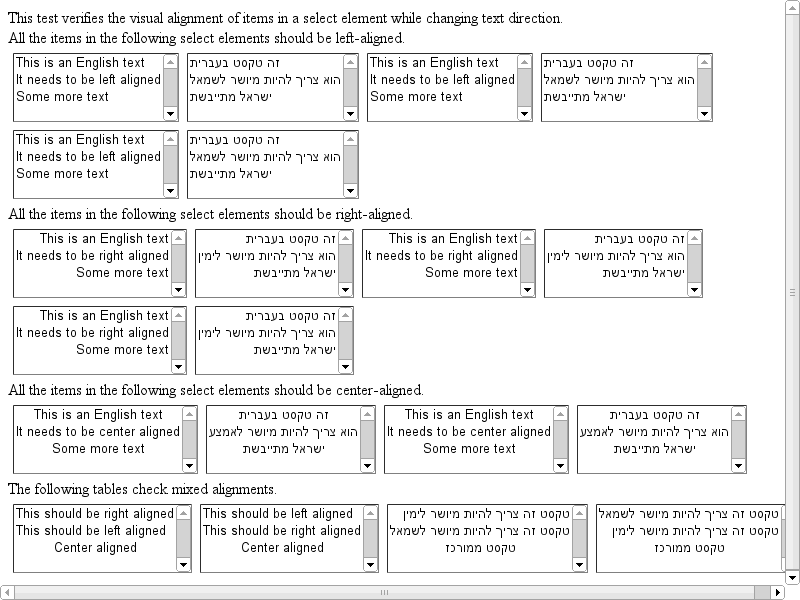
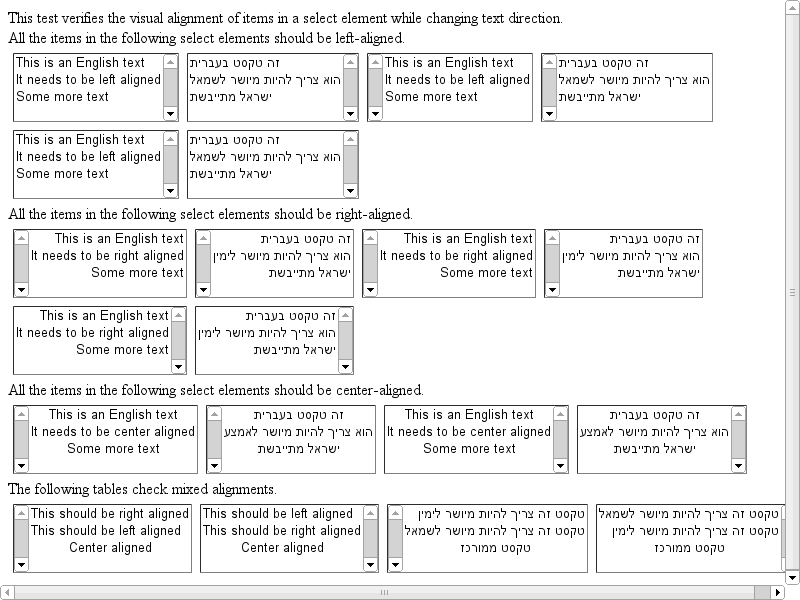
Making multiple select element RTL direction aware
BUG=85833

Review URL: https://codereview.chromium.org/31393004

git-svn-id: svn://svn.chromium.org/blink/trunk@160202 bbb929c8-8fbe-4397-9dbb-9b2b20218538

diff --git a/Source/core/rendering/RenderListBox.cpp b/Source/core/rendering/RenderListBox.cpp
@@ -274,7 +274,9 @@ int RenderListBox::baselinePosition(FontBaseline baselineType, bool firstLine, L
 
 LayoutRect RenderListBox::itemBoundingBoxRect(const LayoutPoint& additionalOffset, int index)
 {
-    return LayoutRect(additionalOffset.x() + borderLeft() + paddingLeft(),
+    // For RTL, items start after the left-side vertical scrollbar.
+    int scrollbarOffset = style()->shouldPlaceBlockDirectionScrollbarOnLogicalLeft() ? m_vBar->width() : 0;
+    return LayoutRect(additionalOffset.x() + borderLeft() + paddingLeft() + scrollbarOffset,
         additionalOffset.y() + borderTop() + paddingTop() + itemHeight() * (index - m_indexOffset),
         contentWidth(), itemHeight());
 }
@@ -348,10 +350,20 @@ void RenderListBox::addFocusRingRects(Vector<IntRect>& rects, const LayoutPoint&
     }
 }
 
+int RenderListBox::scrollbarLeft() const
+{
+    int scrollbarLeft = 0;
+    if (style()->shouldPlaceBlockDirectionScrollbarOnLogicalLeft())
+        scrollbarLeft = borderLeft();
+    else
+        scrollbarLeft = width() - borderRight() - m_vBar->width();
+    return scrollbarLeft;
+}
+
 void RenderListBox::paintScrollbar(PaintInfo& paintInfo, const LayoutPoint& paintOffset)
 {
     if (m_vBar) {
-        IntRect scrollRect = pixelSnappedIntRect(paintOffset.x() + width() - borderRight() - m_vBar->width(),
+        IntRect scrollRect = pixelSnappedIntRect(paintOffset.x() + scrollbarLeft(),
             paintOffset.y() + borderTop(),
             m_vBar->width(),
             height() - (borderTop() + borderBottom()));
@@ -461,7 +473,7 @@ bool RenderListBox::isPointInOverflowControl(HitTestResult& result, const Layout
     if (!m_vBar || !m_vBar->shouldParticipateInHitTesting())
         return false;
 
-    LayoutRect vertRect(accumulatedOffset.x() + width() - borderRight() - m_vBar->width(),
+    LayoutRect vertRect(accumulatedOffset.x() + scrollbarLeft(),
                         accumulatedOffset.y() + borderTop(),
                         m_vBar->width(),
                         height() - borderTop() - borderBottom());
@@ -482,7 +494,10 @@ int RenderListBox::listIndexAtOffset(const LayoutSize& offset)
         return -1;
 
     int scrollbarWidth = m_vBar ? m_vBar->width() : 0;
-    if (offset.width() < borderLeft() + paddingLeft() || offset.width() > width() - borderRight() - paddingRight() - scrollbarWidth)
+    int rightScrollbarOffset = style()->shouldPlaceBlockDirectionScrollbarOnLogicalLeft() ? scrollbarWidth : 0;
+    int leftScrollbarOffset = style()->shouldPlaceBlockDirectionScrollbarOnLogicalLeft() ? 0 : scrollbarWidth;
+    if (offset.width() < borderLeft() + paddingLeft() + rightScrollbarOffset
+        || offset.width() > width() - borderRight() - paddingRight() - leftScrollbarOffset)
         return -1;
 
     int newOffset = (offset.height() - borderTop() - paddingTop()) / itemHeight() + m_indexOffset;
@@ -713,7 +728,10 @@ bool RenderListBox::nodeAtPoint(const HitTestRequest& request, HitTestResult& re
 LayoutRect RenderListBox::controlClipRect(const LayoutPoint& additionalOffset) const
 {
     LayoutRect clipRect = contentBoxRect();
-    clipRect.moveBy(additionalOffset);
+    if (style()->shouldPlaceBlockDirectionScrollbarOnLogicalLeft())
+        clipRect.moveBy(additionalOffset + LayoutPoint(m_vBar->width(), 0));
+    else
+        clipRect.moveBy(additionalOffset);
     return clipRect;
 }
 
@@ -726,7 +744,10 @@ bool RenderListBox::isActive() const
 void RenderListBox::invalidateScrollbarRect(Scrollbar* scrollbar, const IntRect& rect)
 {
     IntRect scrollRect = rect;
-    scrollRect.move(width() - borderRight() - scrollbar->width(), borderTop());
+    if (style()->shouldPlaceBlockDirectionScrollbarOnLogicalLeft())
+        scrollRect.move(borderLeft(), borderTop());
+    else
+        scrollRect.move(width() - borderRight() - scrollbar->width(), borderTop());
     repaintRectangle(scrollRect);
 }
 
@@ -738,9 +759,8 @@ IntRect RenderListBox::convertFromScrollbarToContainingView(const Scrollbar* scr
 
     IntRect rect = scrollbarRect;
 
-    int scrollbarLeft = width() - borderRight() - scrollbar->width();
     int scrollbarTop = borderTop();
-    rect.move(scrollbarLeft, scrollbarTop);
+    rect.move(scrollbarLeft(), scrollbarTop);
 
     return view->frameView()->convertFromRenderer(this, rect);
 }
@@ -753,9 +773,8 @@ IntRect RenderListBox::convertFromContainingViewToScrollbar(const Scrollbar* scr
 
     IntRect rect = view->frameView()->convertToRenderer(this, parentRect);
 
-    int scrollbarLeft = width() - borderRight() - scrollbar->width();
     int scrollbarTop = borderTop();
-    rect.move(-scrollbarLeft, -scrollbarTop);
+    rect.move(-scrollbarLeft(), -scrollbarTop);
     return rect;
 }
 
@@ -767,9 +786,8 @@ IntPoint RenderListBox::convertFromScrollbarToContainingView(const Scrollbar* sc
 
     IntPoint point = scrollbarPoint;
 
-    int scrollbarLeft = width() - borderRight() - scrollbar->width();
     int scrollbarTop = borderTop();
-    point.move(scrollbarLeft, scrollbarTop);
+    point.move(scrollbarLeft(), scrollbarTop);
 
     return view->frameView()->convertFromRenderer(this, point);
 }
@@ -782,9 +800,8 @@ IntPoint RenderListBox::convertFromContainingViewToScrollbar(const Scrollbar* sc
 
     IntPoint point = view->frameView()->convertToRenderer(this, parentPoint);
 
-    int scrollbarLeft = width() - borderRight() - scrollbar->width();
     int scrollbarTop = borderTop();
-    point.move(-scrollbarLeft, -scrollbarTop);
+    point.move(-scrollbarLeft(), -scrollbarTop);
     return point;
 }
 

diff --git a/Source/core/rendering/RenderListBox.h b/Source/core/rendering/RenderListBox.h
@@ -146,6 +146,7 @@ private:
     int numVisibleItems() const;
     int numItems() const;
     LayoutUnit listHeight() const;
+    int scrollbarLeft() const;
     void paintScrollbar(PaintInfo&, const LayoutPoint&);
     void paintItemForeground(PaintInfo&, const LayoutPoint&, int listIndex);
     void paintItemBackground(PaintInfo&, const LayoutPoint&, int listIndex);
